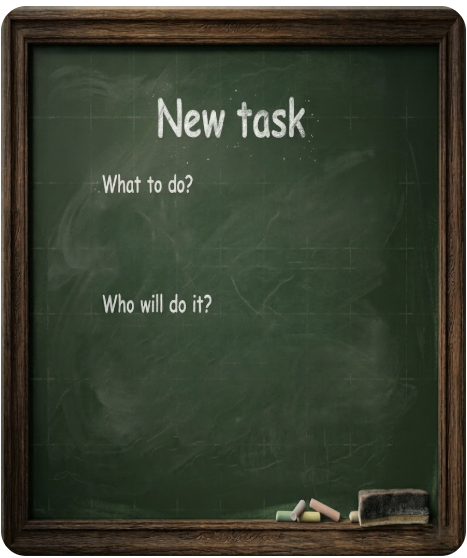
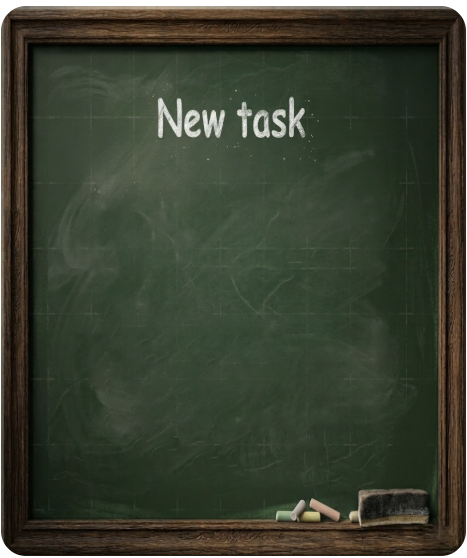
feat(family-tasks): i18n new task modal labels as chalk HTML text
Replace baked PNG field labels with translated Gochi Hand overlays, update newtask plate asset, and align add button border with modal inputs.

Changed region(s): [[0.2099, 0.5179, 0.4497, 0.5789], [0.2099, 0.3047, 0.4197, 0.3656]]

diff --git a/app/globals.css b/app/globals.css
@@ -1040,6 +1040,8 @@ select {
 .todo-text,
 .todo-assignee,
 .chalkboard-modal-title,
+.chalkboard-modal-heading,
+.chalkboard-modal-field-label,
 .chalkboard-form-label,
 .chalkboard-form-input,
 .chalkboard-btn-secondary,
@@ -1169,7 +1171,7 @@ select {
   max-width: 100%;
   background: transparent;
   color: rgba(255, 255, 255, 0.97);
-  border: 0.14cqw solid rgba(255, 255, 255, 0.88);
+  border: 2px solid rgba(255, 255, 255, 0.85);
   border-radius: var(--chalk-sketch-radius);
   font-family: var(--chalk-font-title);
   font-size: 4.25cqw;
@@ -1368,7 +1370,7 @@ select {
   text-shadow: var(--chalk-shadow-ui);
 }
 
-/* Chalkboard Modal Styles — PNG plate + HTML inputs (labels baked into image) */
+/* Chalkboard Modal Styles — PNG plate + HTML labels/inputs */
 .chalkboard-modal-overlay {
   position: fixed;
   inset: 0;
@@ -1422,16 +1424,49 @@ select {
   left: var(--chalkboard-newtask-form-left);
   right: var(--chalkboard-newtask-form-right);
   min-width: 0;
+  display: flex;
+  flex-direction: column;
+  gap: 1.4cqi;
 }
 
-/* PNG labels: "What to do?" ~32%, input sits just below */
+/* PNG(467×558) 기준: 제목 ~14%, 필드 라벨 ~30% / ~50% */
+.chalkboard-modal-container .chalkboard-modal-heading {
+  position: absolute;
+  z-index: 1;
+  left: var(--chalkboard-newtask-form-left);
+  right: var(--chalkboard-newtask-form-right);
+  top: 14%;
+  margin: 0;
+  text-align: center;
+  font-family: var(--chalk-font-title);
+  font-size: 7.8cqi;
+  font-weight: 400;
+  line-height: 1.05;
+  letter-spacing: 0.04em;
+  color: rgba(255, 255, 255, 0.97);
+  text-shadow: var(--chalk-shadow-ui);
+  white-space: nowrap;
+  overflow: hidden;
+  text-overflow: ellipsis;
+}
+
+.chalkboard-modal-container .chalkboard-modal-field-label {
+  margin: 0;
+  font-family: var(--chalk-font-title);
+  font-size: 5cqi;
+  font-weight: 400;
+  line-height: 1.1;
+  letter-spacing: 0.03em;
+  color: rgba(255, 255, 255, 0.97);
+  text-shadow: var(--chalk-shadow-ui);
+}
+
 .chalkboard-modal-field--what {
-  top: 39%;
+  top: 28%;
 }
 
-/* PNG labels: "Who will do it?" ~54%, input sits just below */
 .chalkboard-modal-field--who {
-  top: 61%;
+  top: 50%;
 }
 
 .chalkboard-modal-container .chalkboard-form-input {

diff --git a/app/features/family-tasks/components/FamilyTasksSection.tsx b/app/features/family-tasks/components/FamilyTasksSection.tsx
@@ -306,22 +306,29 @@ export function FamilyTasksSection({
         <div className="chalkboard-modal-overlay" onClick={() => setIsTodoModalOpen(false)}>
           <div className="chalkboard-modal-frame" onClick={(e) => e.stopPropagation()}>
             <div className="chalkboard-modal-container">
+              <h2 className="chalkboard-modal-heading">{t.todo_modal_title}</h2>
               <div className="chalkboard-modal-form">
                 <div className="chalkboard-modal-field chalkboard-modal-field--what">
+                  <label className="chalkboard-modal-field-label" htmlFor="chalkboard-todo-what">
+                    {t.todo_what_label}
+                  </label>
                   <input
                     ref={todoTextRef}
+                    id="chalkboard-todo-what"
                     type="text"
                     className="chalkboard-form-input"
                     placeholder={t.todo_what_placeholder}
-                    aria-label={t.todo_what_label}
                   />
                 </div>
                 <div className="chalkboard-modal-field chalkboard-modal-field--who">
+                  <label className="chalkboard-modal-field-label" htmlFor="chalkboard-todo-who">
+                    {t.todo_who_label}
+                  </label>
                   <select
                     ref={todoWhoRef}
+                    id="chalkboard-todo-who"
                     className="chalkboard-form-input"
                     defaultValue=""
-                    aria-label={t.todo_who_label}
                   >
                     <option value="">{t.todo_who_placeholder || t.anyone}</option>
                     {taskMembers.map((m) => (